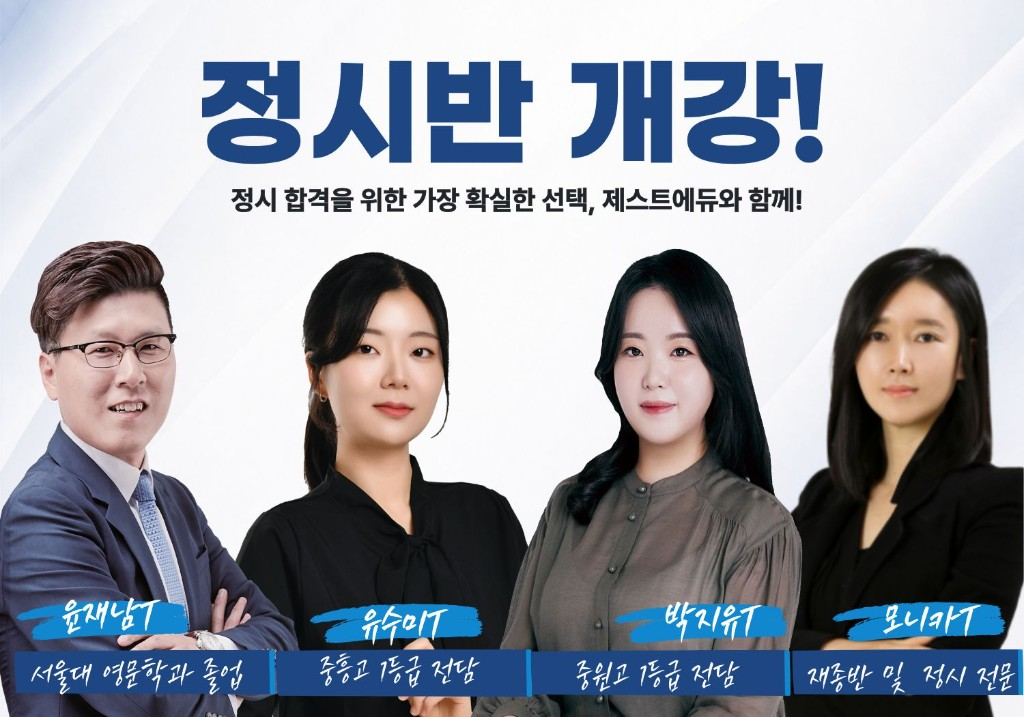
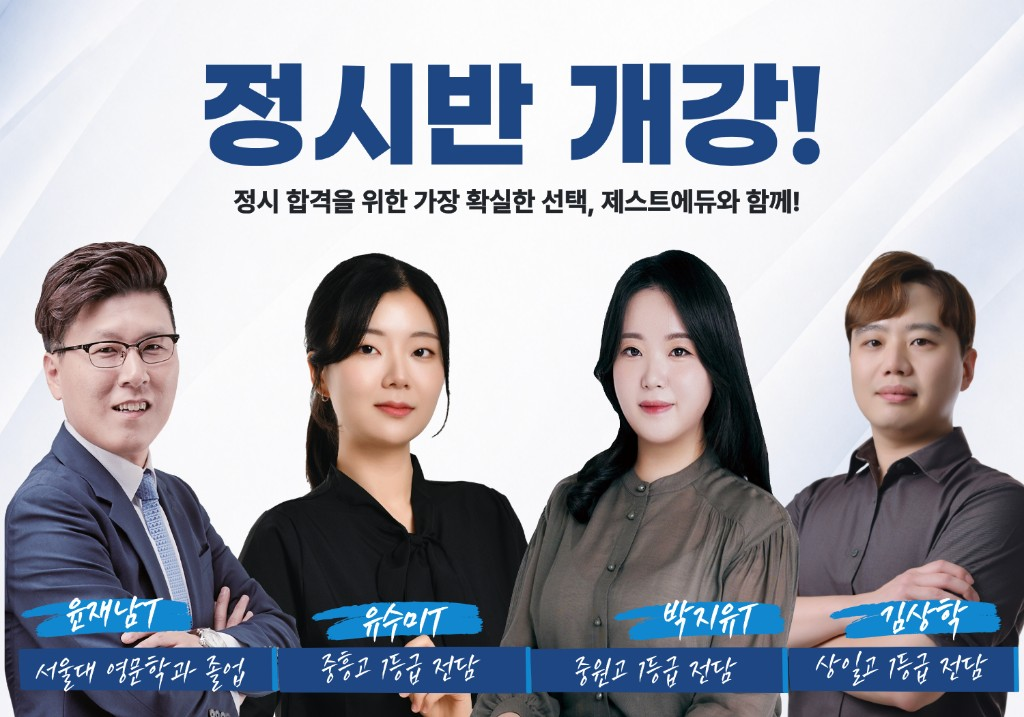
정시반 배너·수능 프로그램 이미지를 교체하고 강사진에서 모니카T를 제거한다.

diff --git a/index.html b/index.html
@@ -406,7 +406,7 @@
           </figure>
           <figure class="slide" aria-label="3 / 6">
             <a class="slide-link" href="jeongsi.html" aria-label="정시반 개강 상세 보기">
-              <img src="images/jeongsi-hero.png?v=4" alt="제스트에듀 정시반 개강 — 윤재남T · 유수미T · 박지유T · 모니카T" width="1024" height="717" />
+              <img src="images/jeongsi-hero.png?v=5" alt="제스트에듀 정시반 개강 — 윤재남T · 유수미T · 박지유T · 김상학T" width="1024" height="717" />
             </a>
           </figure>
           <figure class="slide" aria-label="4 / 6">
@@ -494,7 +494,7 @@
         </div>
       </div>
       <a class="prog reveal" href="jeongsi.html">
-        <div class="ph-img fill"><img src="images/program-suneung.png?v=2" alt="정시반 개강 — 윤재남T · 유수미T · 박지유T · 모니카T" width="1024" height="717" /><div class="label">📷<small>수능·정시반</small></div></div>
+        <div class="ph-img fill"><img src="images/program-suneung.png?v=3" alt="정시반 개강 — 윤재남T · 유수미T · 박지유T · 김상학T" width="1024" height="717" /><div class="label">📷<small>수능·정시반</small></div></div>
         <div class="body">
           <span class="tag">수능 · 정시</span>
           <h3>1등급 전략 · 정시 파이널</h3>
@@ -789,12 +789,6 @@
       points:['kNow! How? N차 반복의 힘 — 개념시트·핵심문법·3개년 기출·심화 test 반복','Self-Made 개념 노트 — 자기만의 언어로 요약·구체화하며 내재화','Thread 독해 — 문장 연결고리를 꿰어 나무(내용)와 숲(주제)을 동시에','ACE English — Application(5형식 적용)·Classification(품사 구분)·Expansion(어휘 확장)'],
       edu:['고려대학교(안암 캠퍼스) 졸업','압구정고 졸업'],
       career:['現 제스트에듀 중/고등 영어 전문 강사','前 (일산) 이지베스트학원 중/고등 강사','前 (파주) 비상아이비츠학원 중/고등 강사']
-    },
-    {
-      id:'monica', name:'모니카', role:'중·고등 영어 전문강사', subject:'직접관리 · 성적향상', photo:'images/teacher-monica.png?v=2',
-      badge:'직접관리', card:'무조건 성적, 올립니다!',
-      tag:'“‘거를 타선 없는 수업’과 ‘집요한 직접관리’로 무조건 성적 올립니다!”',
-      career:['現 목동 IB 재수종합반','現 폴몬트학원 외고 전담','前 노량진 메가스터디 재종반','前 송파 이투스 고등부','前 목동 거인의 어깨 고3']
     }
   ];
 
